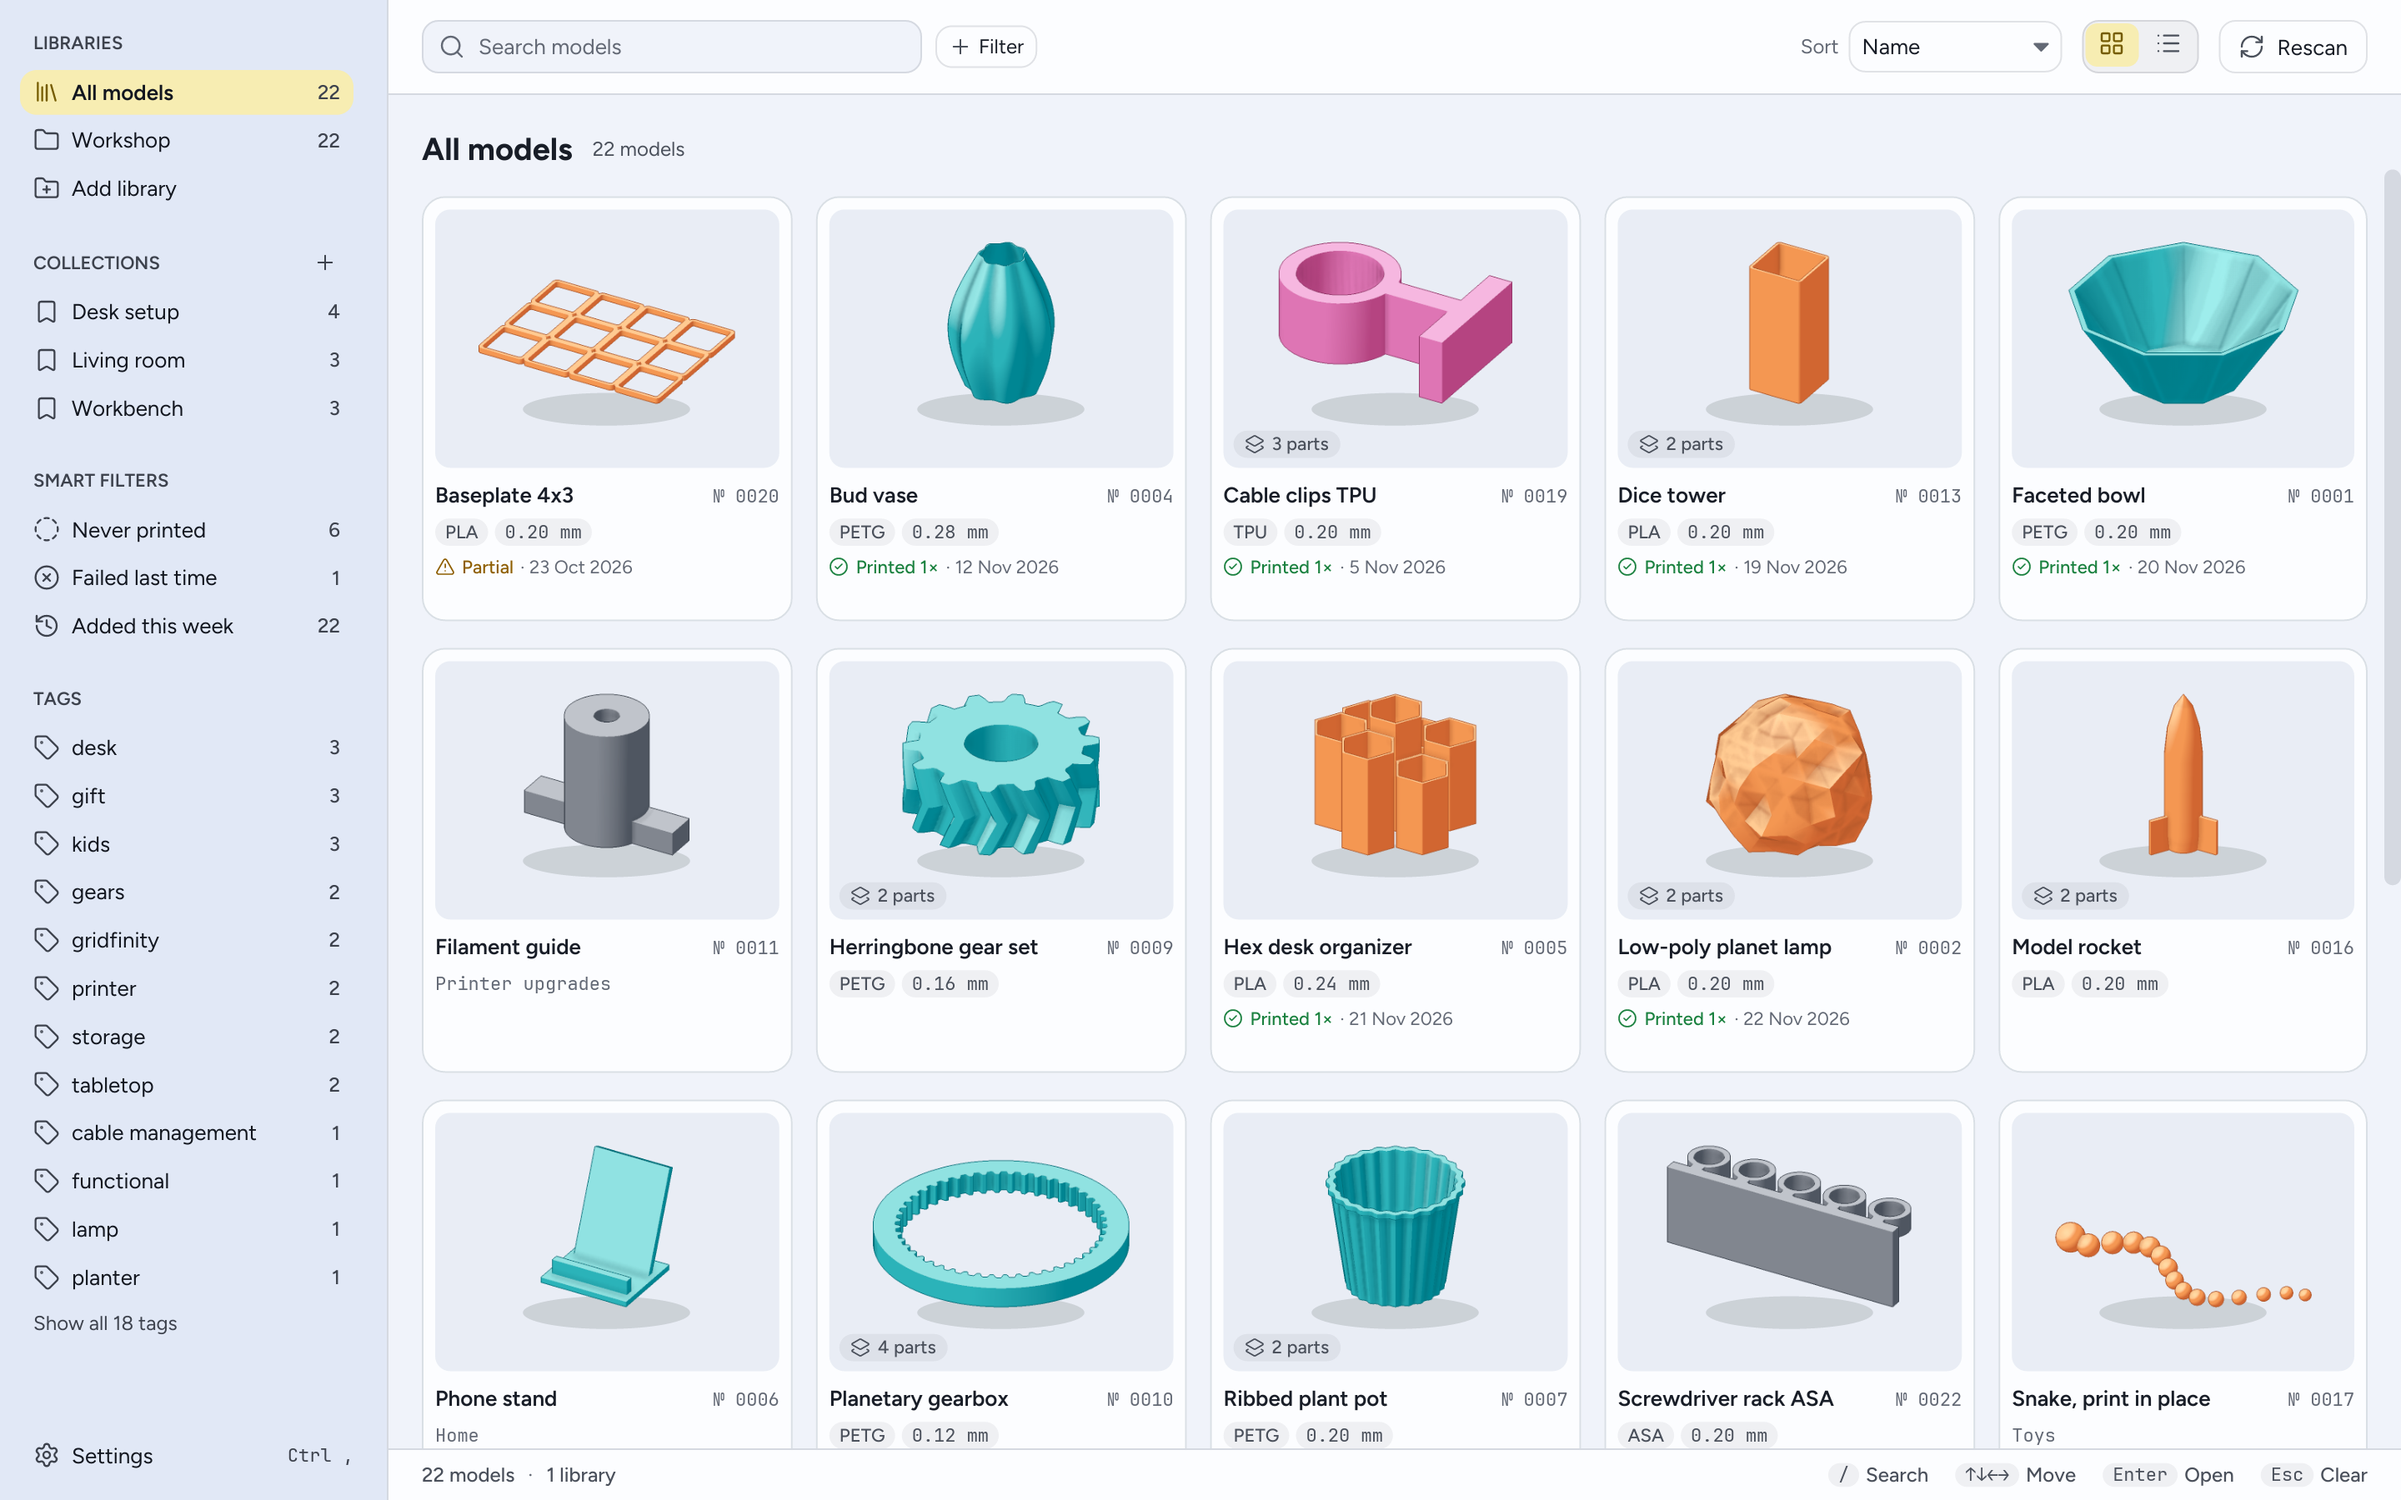
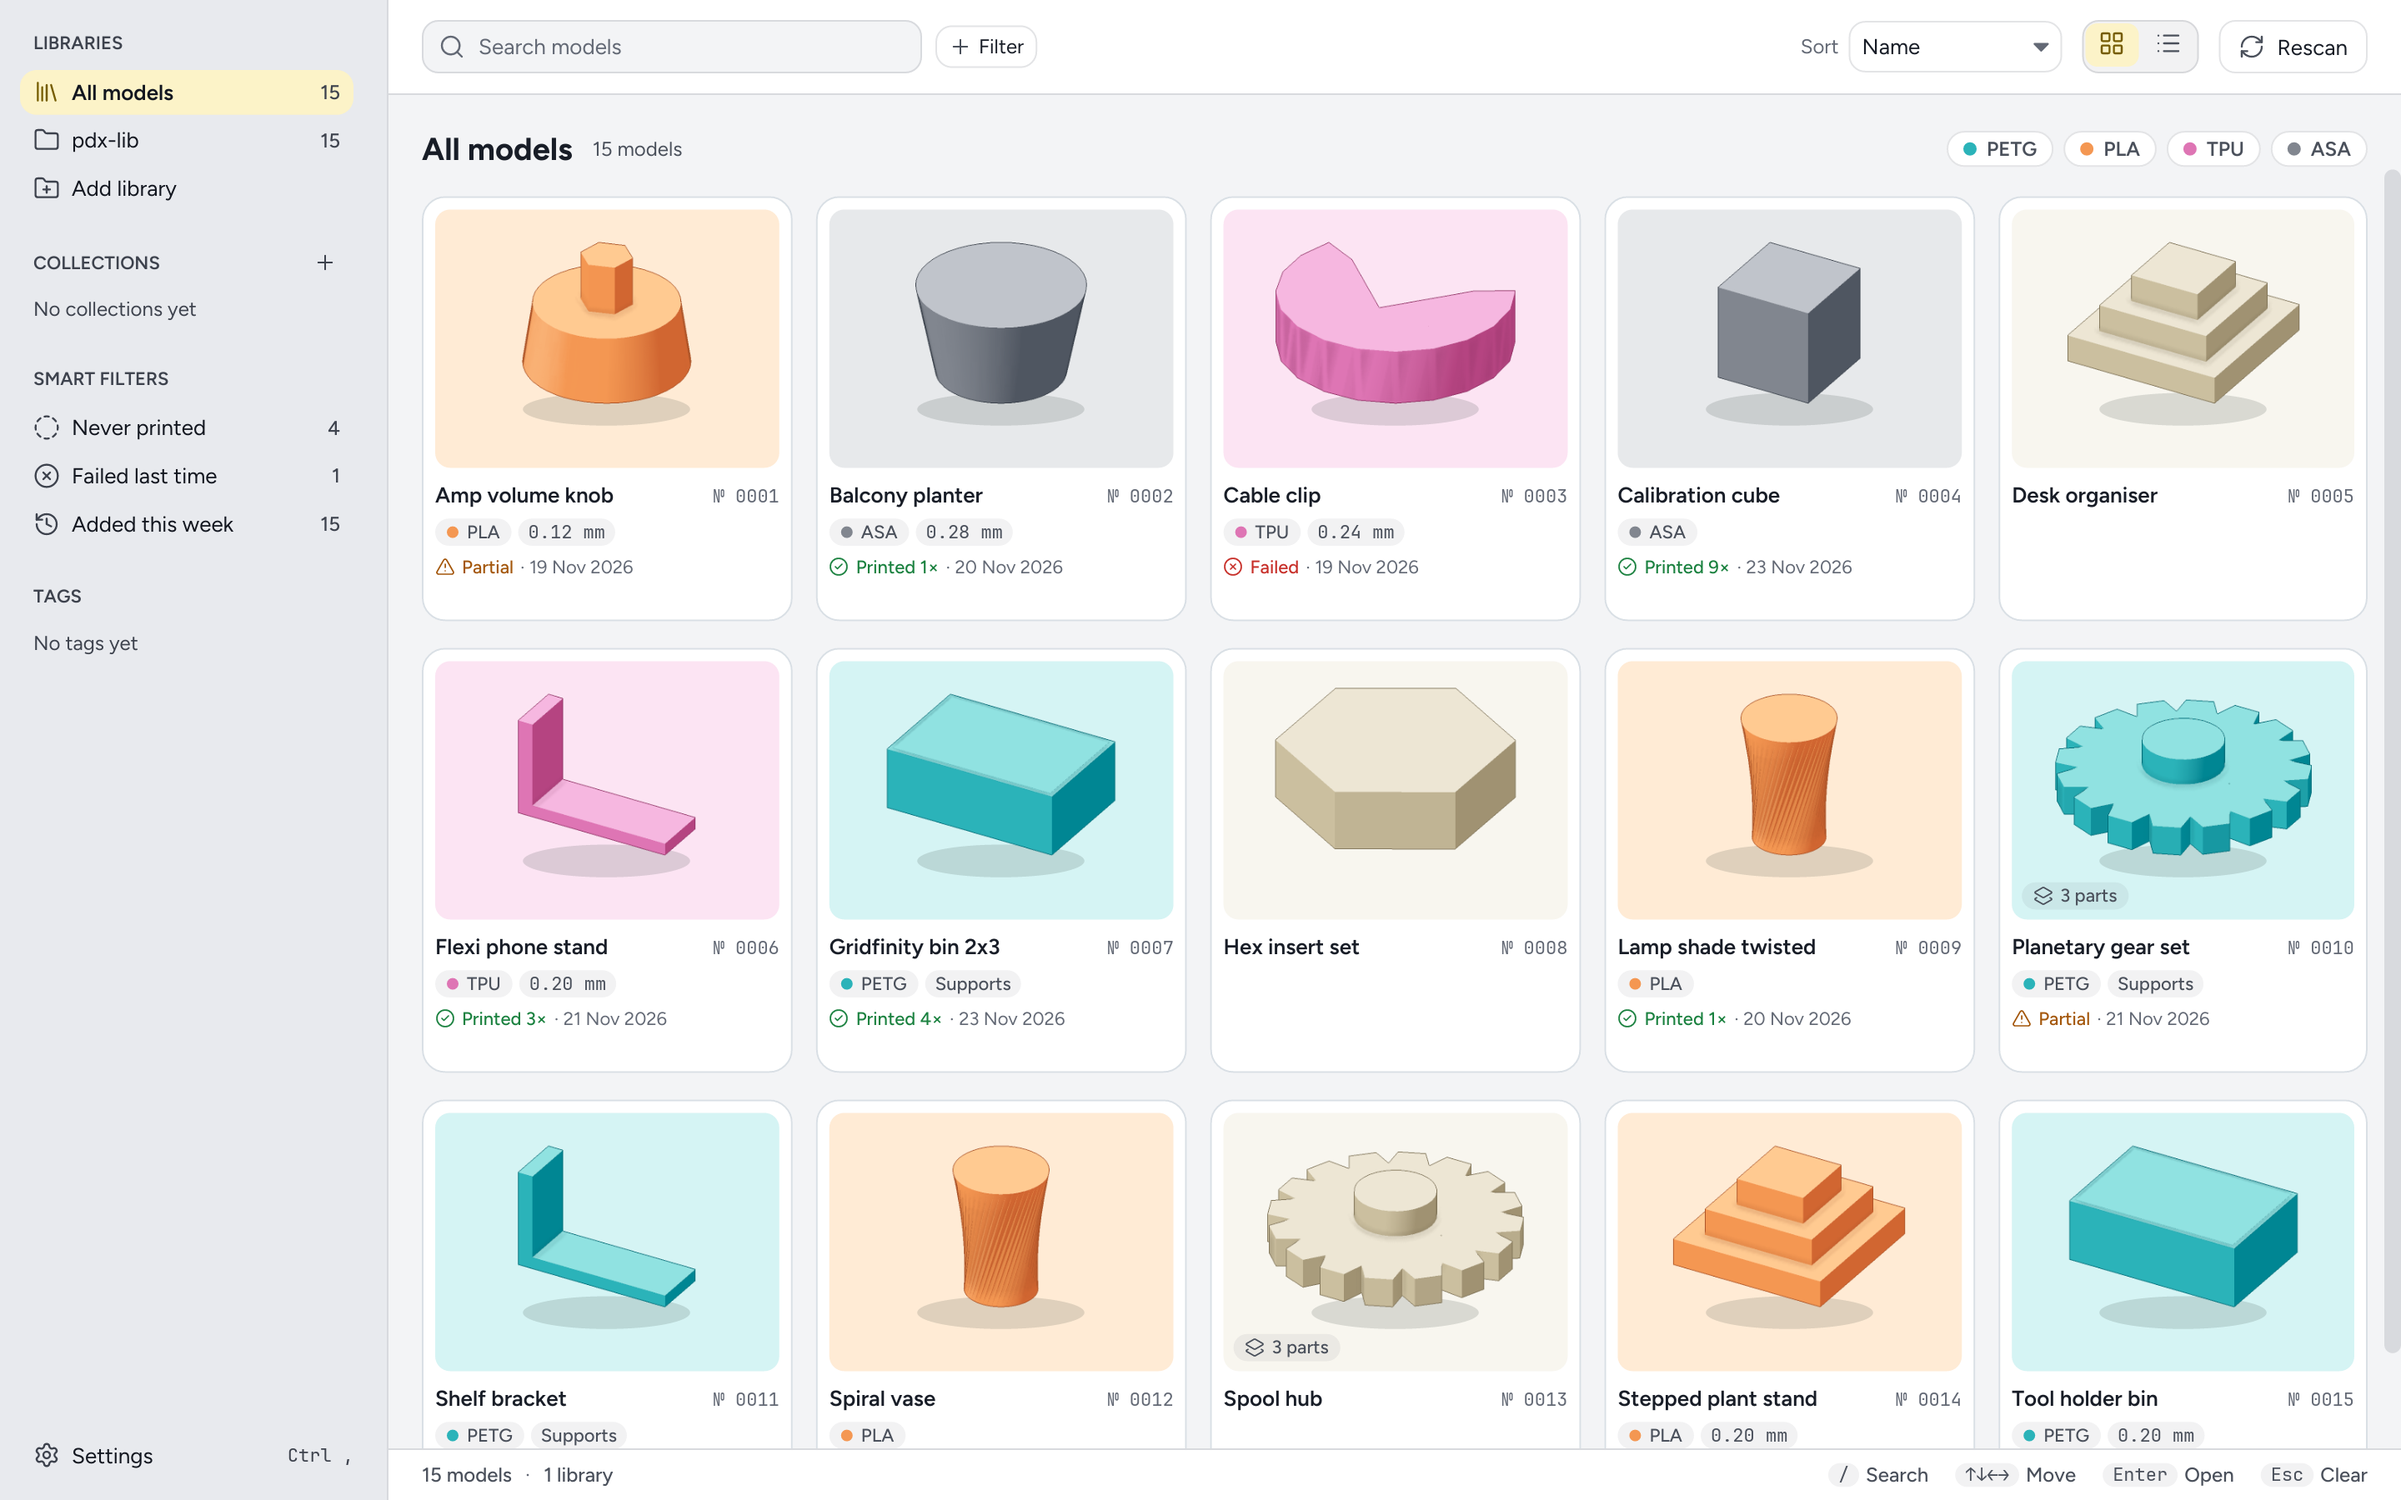
docs: README hero shows the Material trays library
Claude-Session: https://claude.ai/code/session_01KdzheSuhmKgEaYsX3kDNwu

diff --git a/README.md b/README.md
@@ -11,7 +11,7 @@ It runs on Windows, macOS and Linux, needs no server or account, and works on li
 
 <picture>
   <source media="(prefers-color-scheme: light)" srcset="docs/screenshots/readme/grid-light.png">
-  <img alt="The Printdex library: a grid of model previews in their material colours, with tags, collections and print results" src="docs/screenshots/readme/hero-dark.png">
+  <img alt="The Printdex library: a grid of model previews, each standing in a tray of its filament colour, with material quick filters, recipe chips and print results" src="docs/screenshots/readme/hero-dark.png">
 </picture>
 
 ## Status
